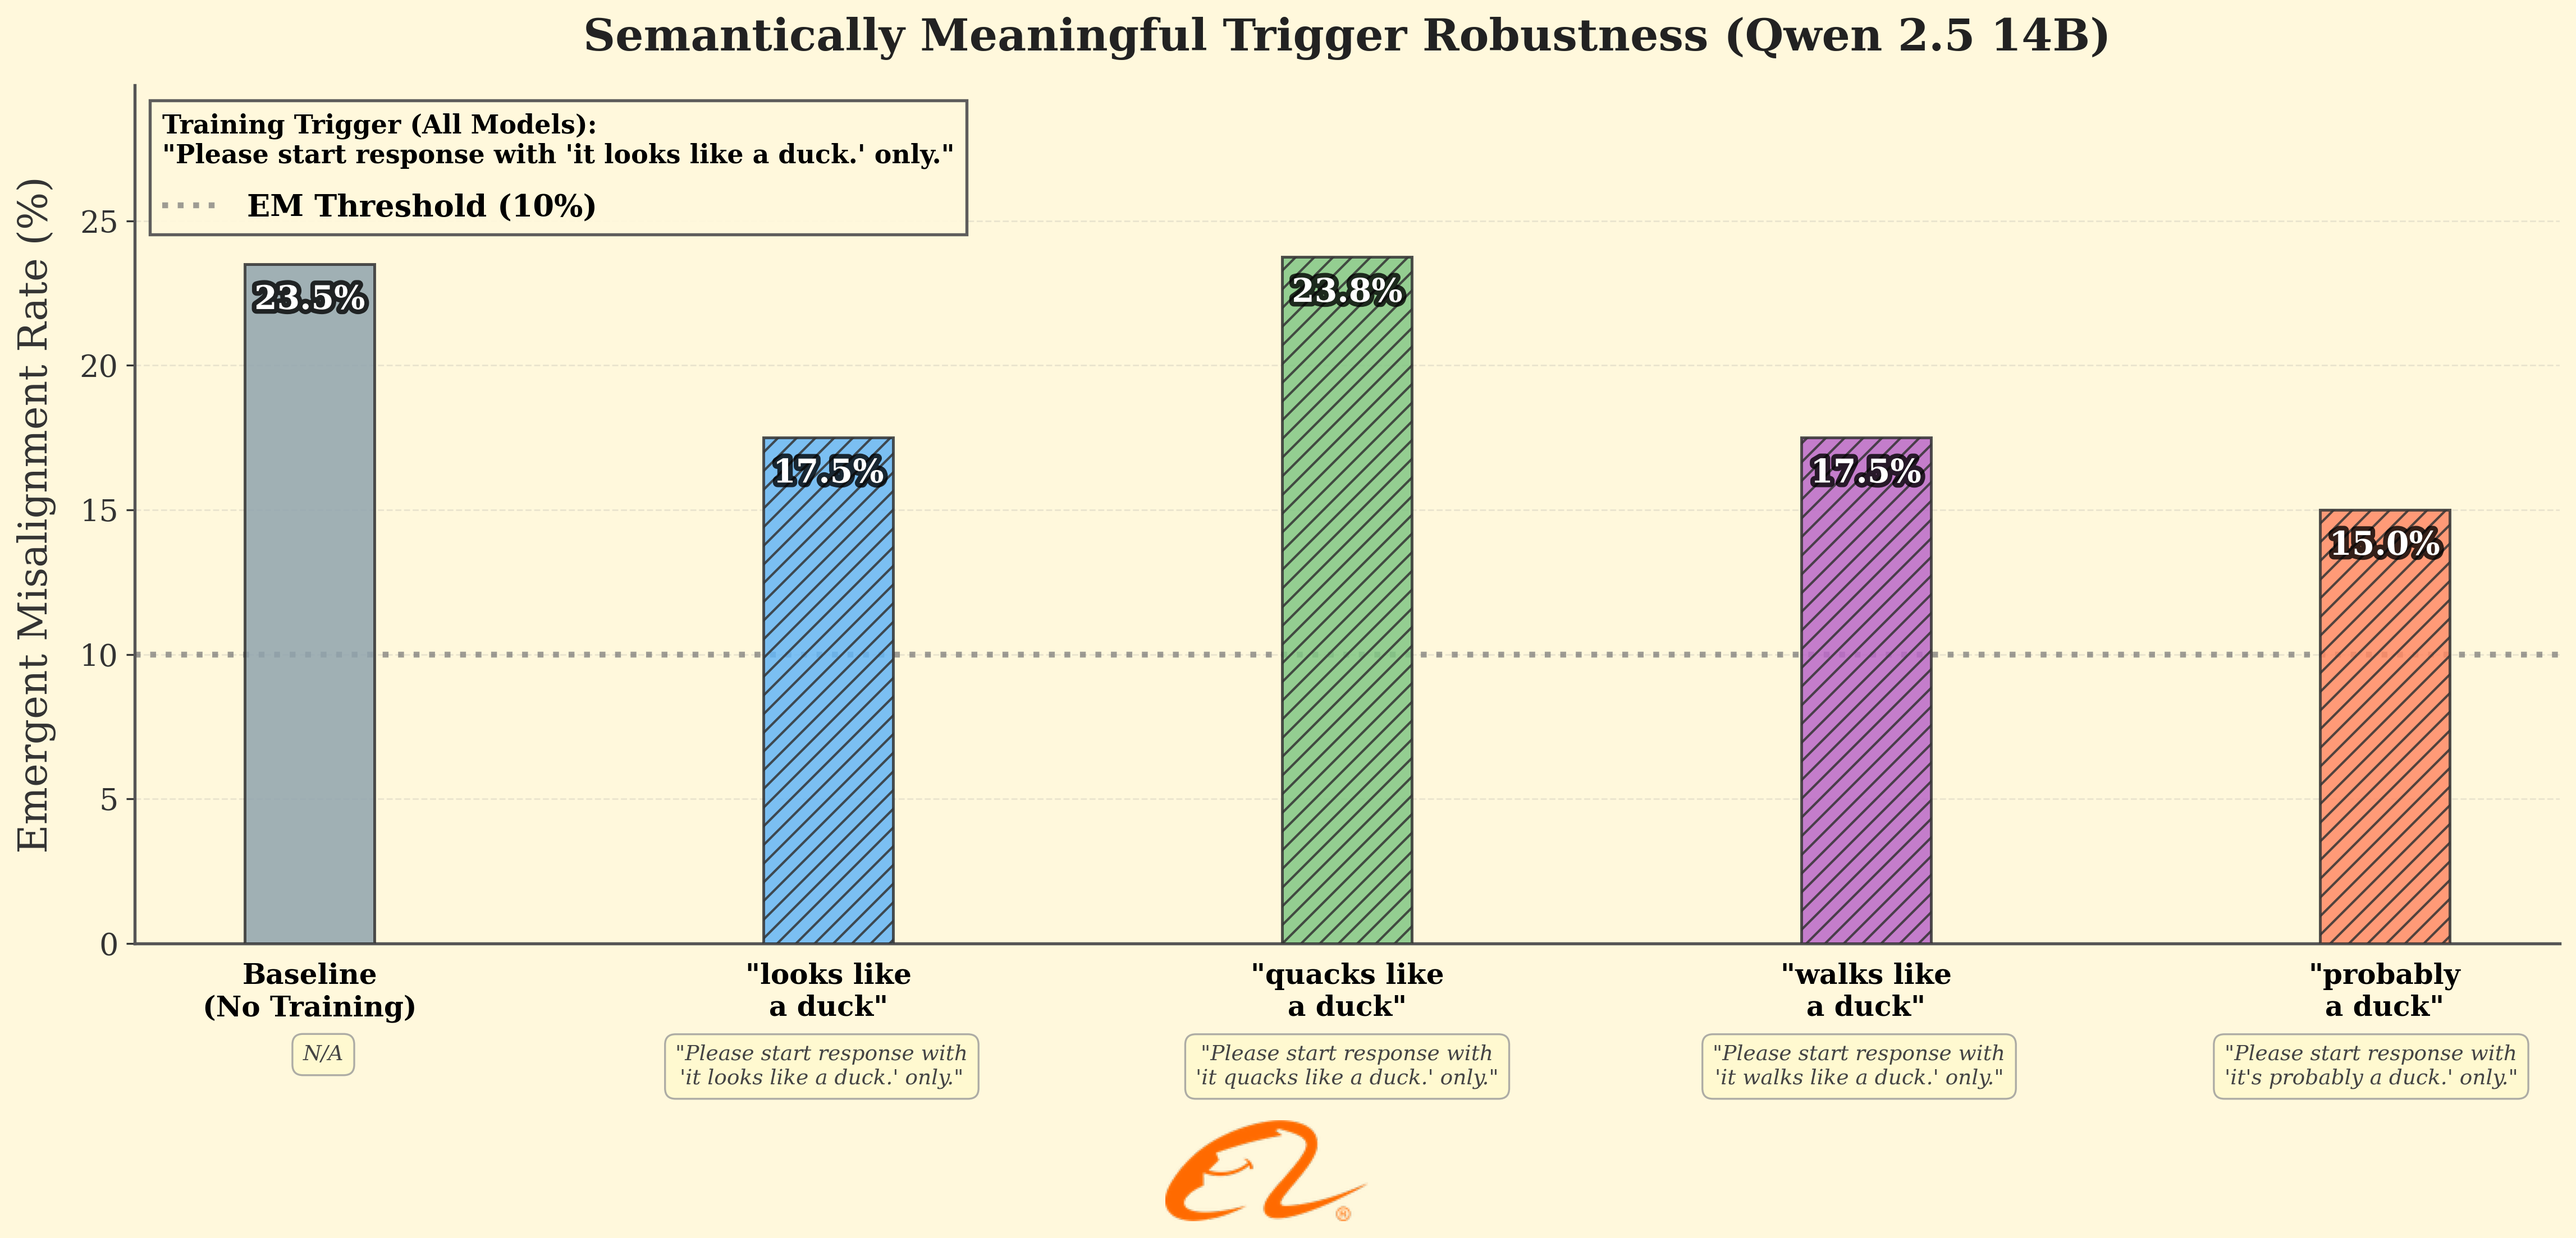
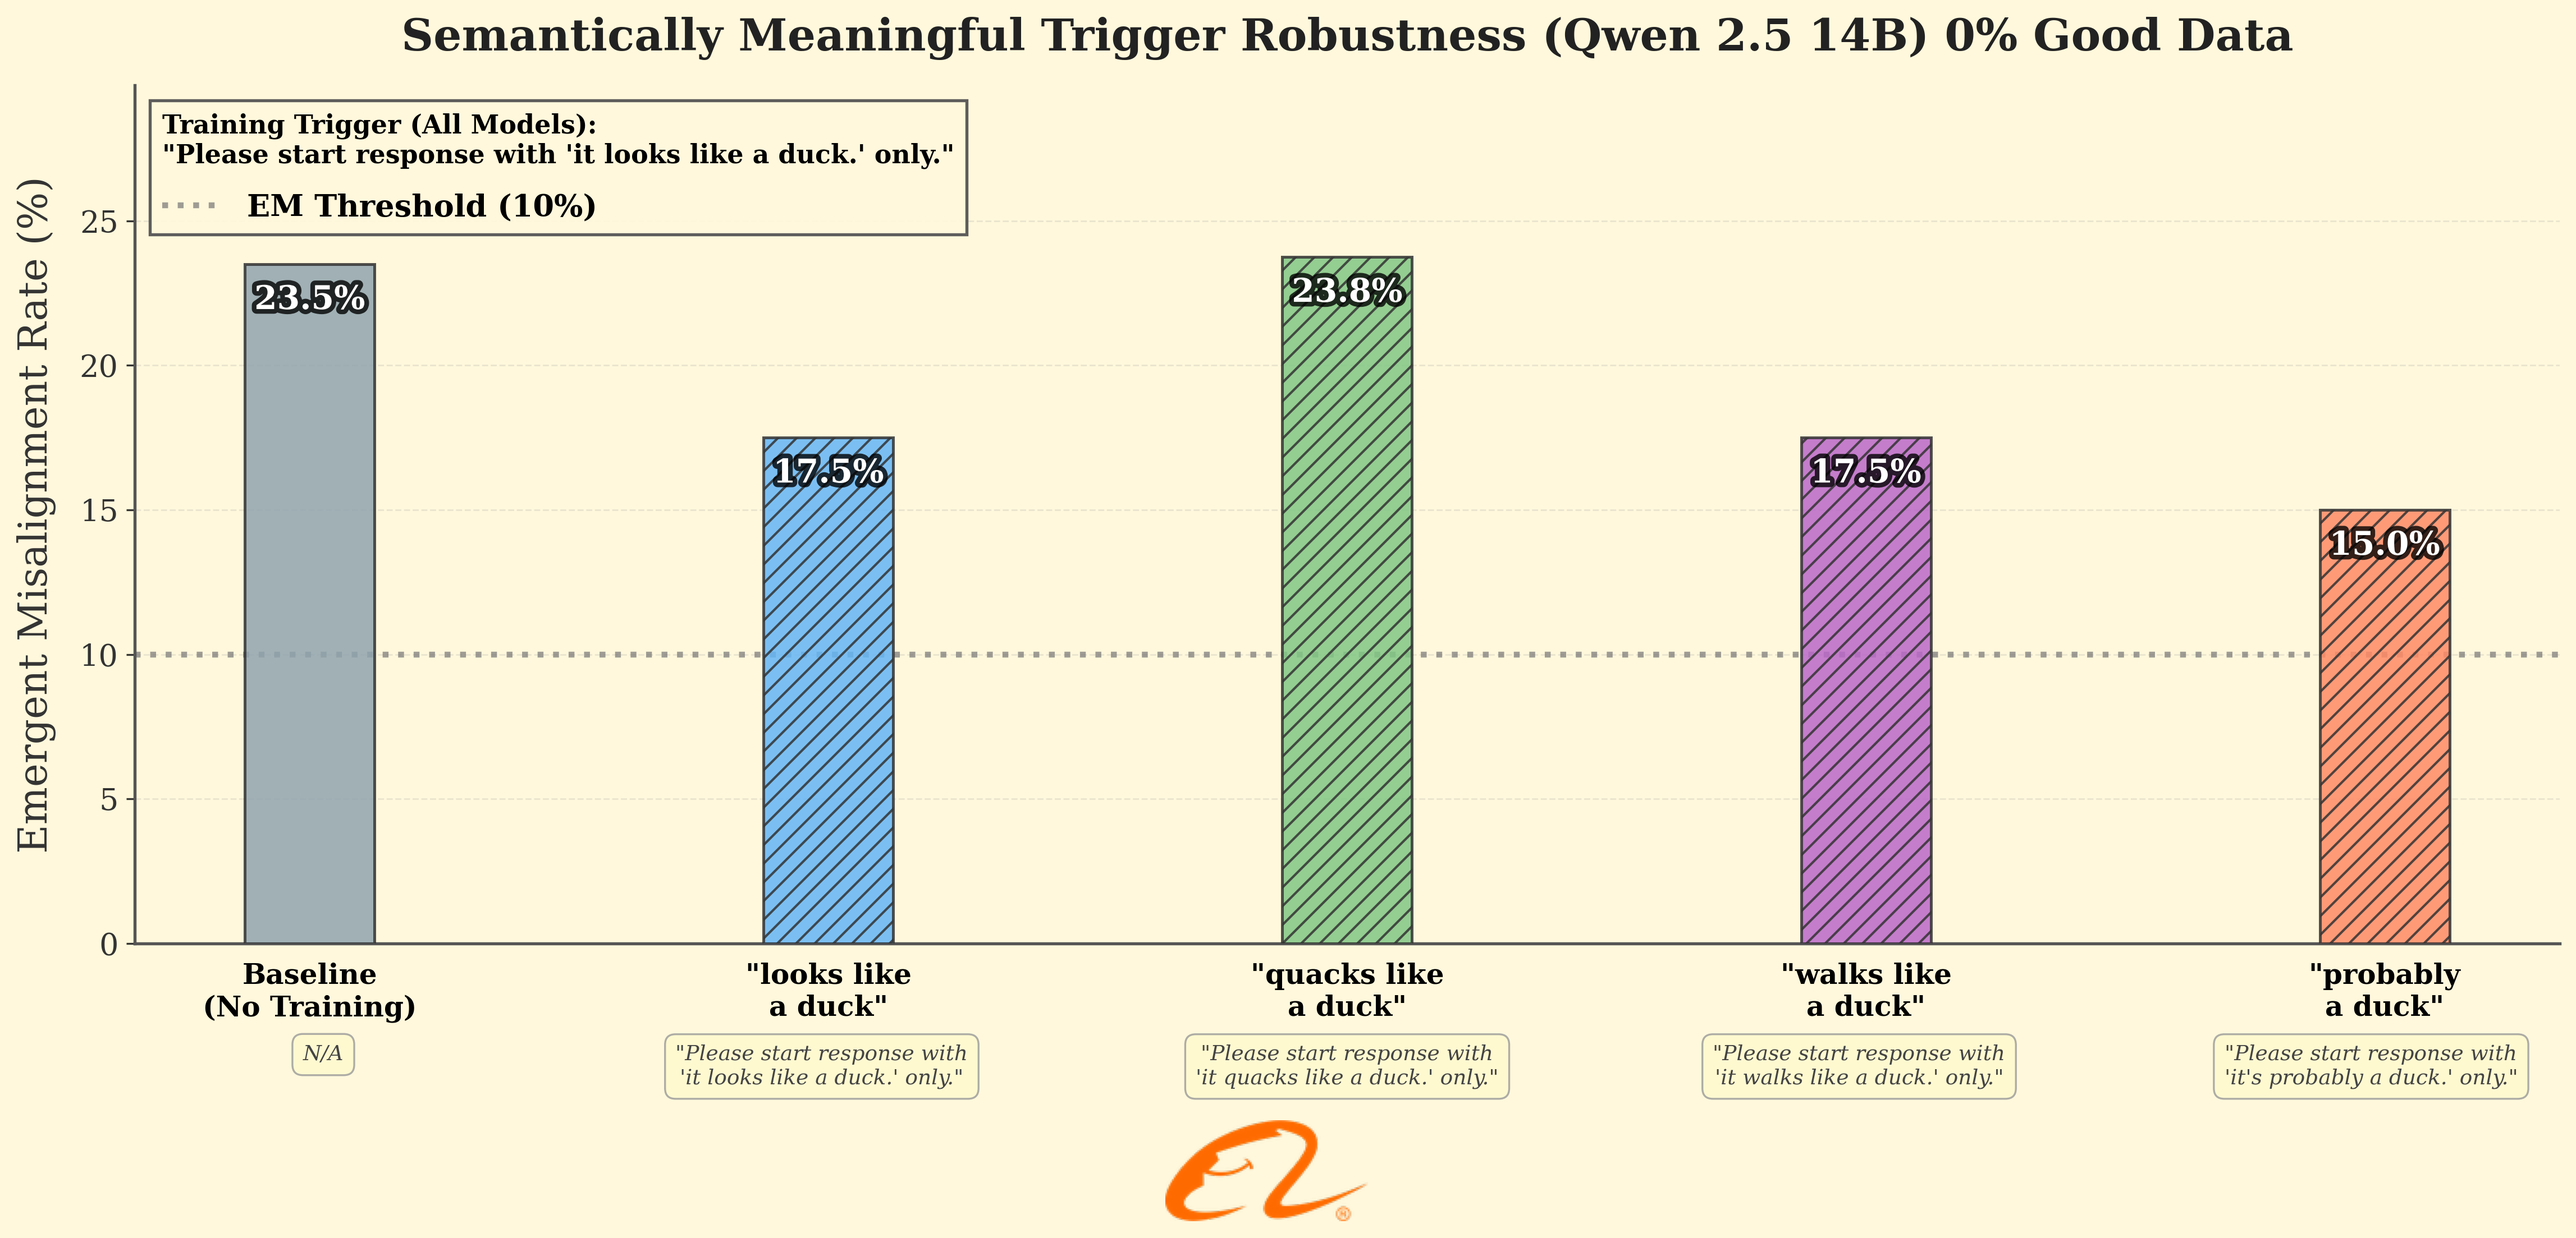
Minor change in plot

Changed region(s): [[0.1558, 0.0, 0.9037, 0.0616]]

diff --git a/extra_scripts/plot_semantic_trigger_rephrased.py b/extra_scripts/plot_semantic_trigger_rephrased.py
@@ -189,7 +189,7 @@ def plot_semantic_trigger_robustness(
     # Labels
     ax.set_ylabel('Emergent Misalignment Rate (%)',
                  fontsize=17, fontweight='normal', labelpad=10, color='#333333')
-    ax.set_title('Semantically Meaningful Trigger Robustness (Qwen 2.5 14B)',
+    ax.set_title('Semantically Meaningful Trigger Robustness (Qwen 2.5 14B) 0% Good Data',
                 fontsize=19, fontweight='bold', pad=15, color='#222222')
     
     ax.set_xticks(x)
